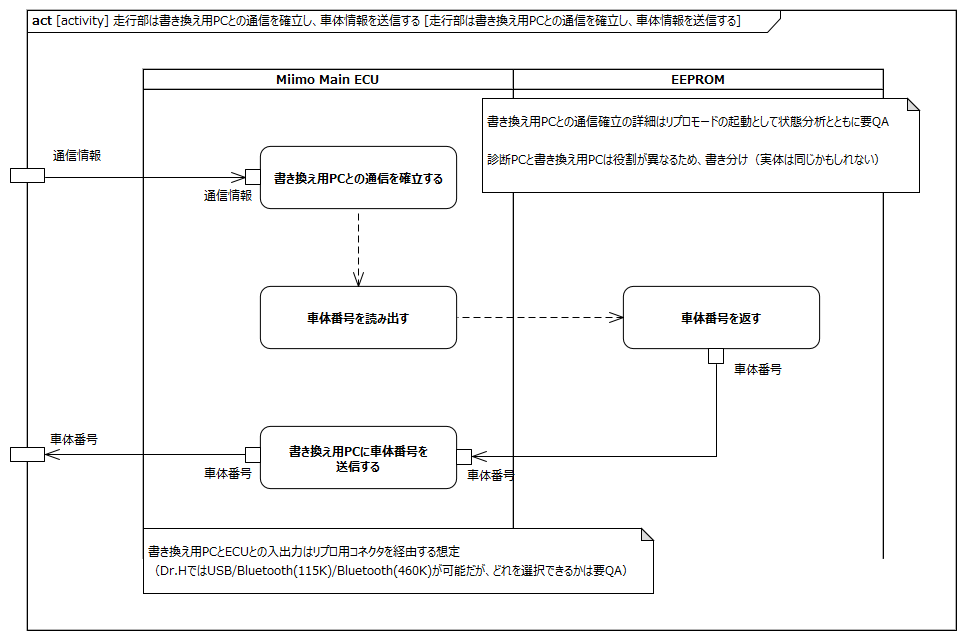
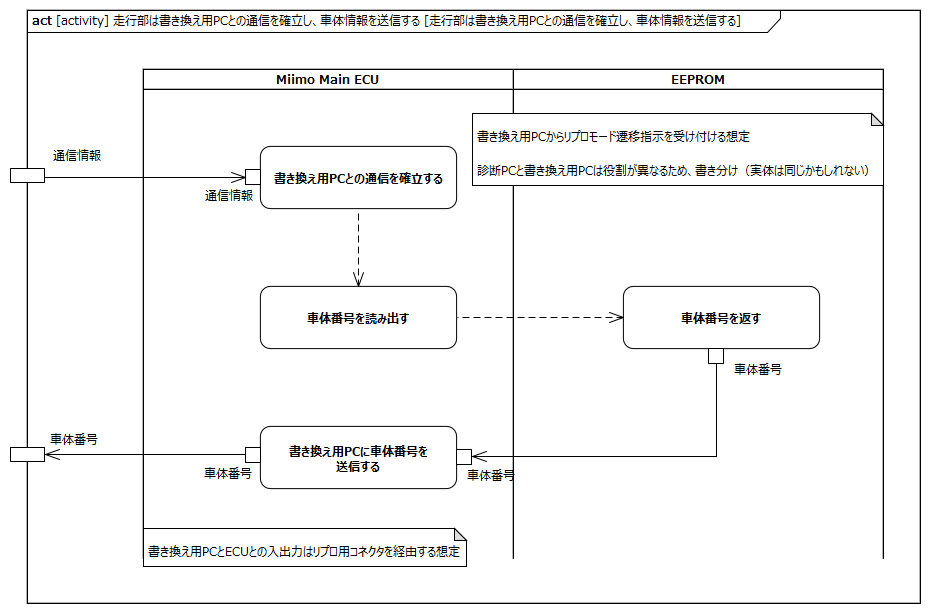
プルリク#64指摘事項対応 ・activity/remote_control/act03.png 　マージノードを使用するように修正 ・activity/software_update/act01.png 　要QAとあった場所についてQA結果反映 　－1つはDr.Hについての質問だったため、削除 ・requirements/software_update.md 　未定義の用語（SW）を使用しないように修正

diff --git a/requirements/software_update.md b/requirements/software_update.md
@@ -72,7 +72,7 @@ avatarin側の責務のため、対象外とする。
 |Miimo Main ECUはEEPROMに車体番号の読み出しを依頼する||
 |Miimo Main ECUはEEPROMから受けた車体番号を書き換え用PCに送信する|※2|
 |EEPROMはMiimo Main ECUの依頼を受けて車体番号を返す||
-※1:書き換え用PCとの通信確立の詳細は、リプロモードの起動として状態分析とともに要QA  
+※1:書き換え用PCからリプロモード遷移指示を受け付ける想定  
 ※2:書き換え用PCとの通信はリプロ用コネクタを経由する想定
 
 <div style="page-break-before:always"></div>
@@ -89,7 +89,7 @@ avatarin側の責務のため、対象外とする。
 |Miimo Main ECUは走行部ソフトウェアを書き換える||
 |Miimo Main ECUはソフトウェア書き換え結果を書き換え用PCに送信する|※1※2|
 ※1:書き換え用PCは書き換え結果を元に電源OFF操作後に電源ON操作（失敗の場合は書き換えの再試行）を促す想定  
-※2:リプロ手順は、SW書き換え→書き換え用PCからのシャットダウン指示→Miimo Main ECUのシャットダウン→人が電源ONを実施→書き換え用PCからSWバージョン確認実施、を想定（外部指示によりMiimo Main ECUのシャットダウンが必須のため、DC-ONではリプロ不可）
+※2:リプロ手順は、走行部ソフトウェア書き換え→書き換え用PCからのシャットダウン指示→Miimo Main ECUのシャットダウン→人が電源ONを実施→書き換え用PCから走行部ソフトウェアバージョン確認実施、を想定（外部指示によりMiimo Main ECUのシャットダウンが必須のため、DC-ONではリプロ不可）
 
 <div style="page-break-before:always"></div>
 
